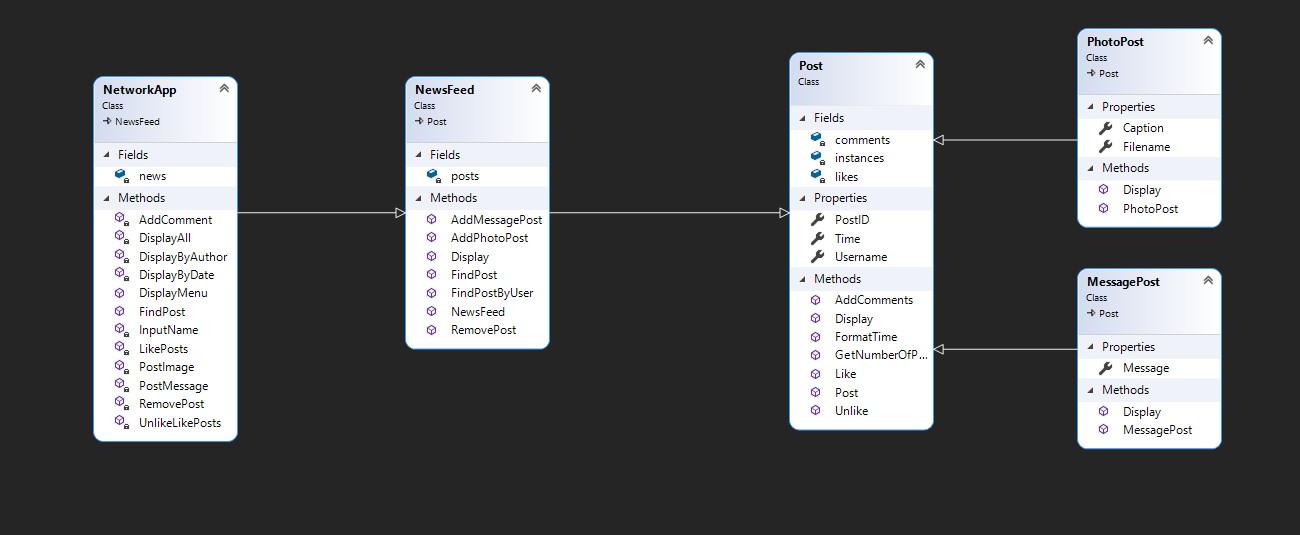
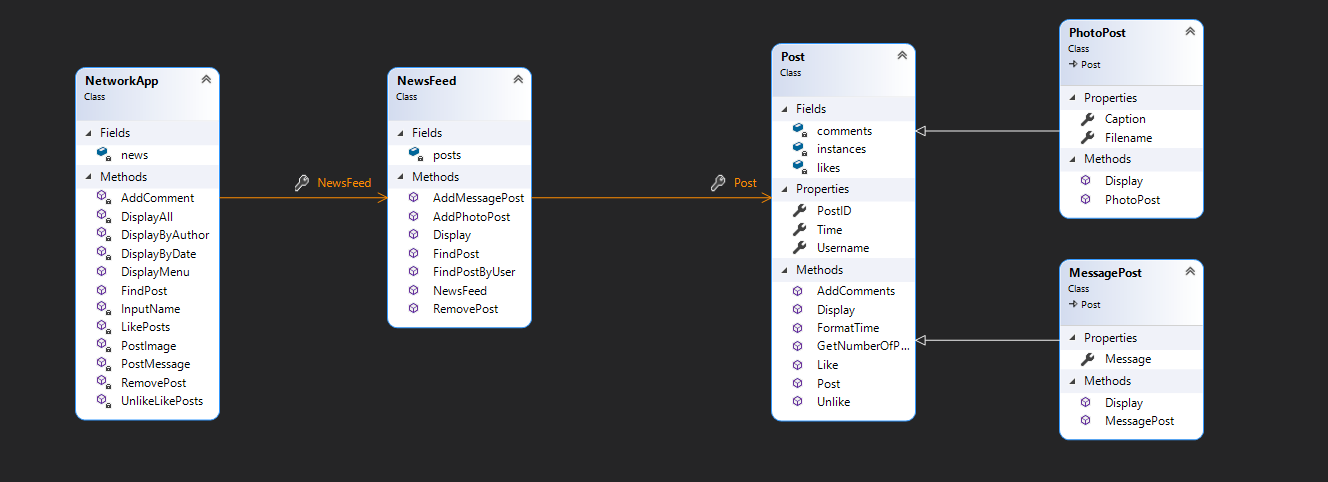
Class Diagram

Changed region(s): [[0.0308, 0.0311, 0.9538, 0.9336]]

diff --git a/ConsoleAppProject/App04/NetworkApp.cs b/ConsoleAppProject/App04/NetworkApp.cs
@@ -12,8 +12,16 @@ namespace ConsoleAppProject.App04
     {
         private readonly NewsFeed news = new NewsFeed();
 
+        public NewsFeed NewsFeed
+        {
+            get => default;
+            set
+            {
+            }
+        }
+
         /// <summary>
-        /// 
+        /// Prints out the menu for the app.
         /// </summary>
         public void DisplayMenu()
         {
@@ -57,6 +65,10 @@ namespace ConsoleAppProject.App04
             news.Display();
         }
 
+        /// <summary>
+        /// Method to remove a post.
+        /// </summary>
+        
         private void RemovePost()
         {
             ConsoleHelper.OutputTitle("Romove a Post");
@@ -66,6 +78,9 @@ namespace ConsoleAppProject.App04
             news.RemovePost(id);
         }
 
+        /// <summary>
+        /// Method to post an image.
+        /// </summary>
         private void PostImage()
         {
             ConsoleHelper.OutputTitle("Posting an Image/Photo");

diff --git a/ConsoleAppProject/App04/NewsFeed.cs b/ConsoleAppProject/App04/NewsFeed.cs
@@ -30,6 +30,14 @@ namespace ConsoleAppProject.App04
             posts = new List<Post>();
         }
 
+        public Post Post
+        {
+            get => default;
+            set
+            {
+            }
+        }
+
 
         ///<summary>
         /// Add a text post to the news feed.
